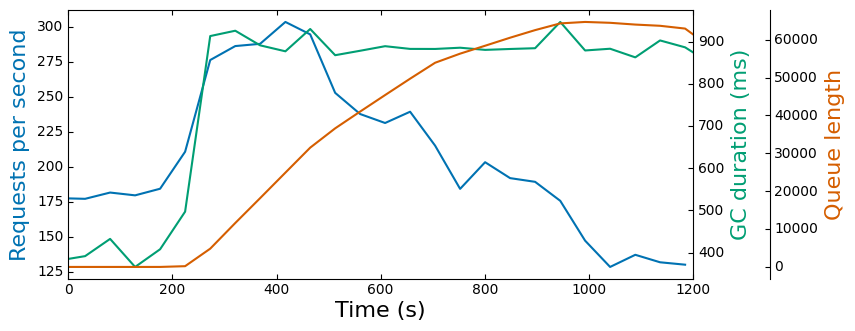
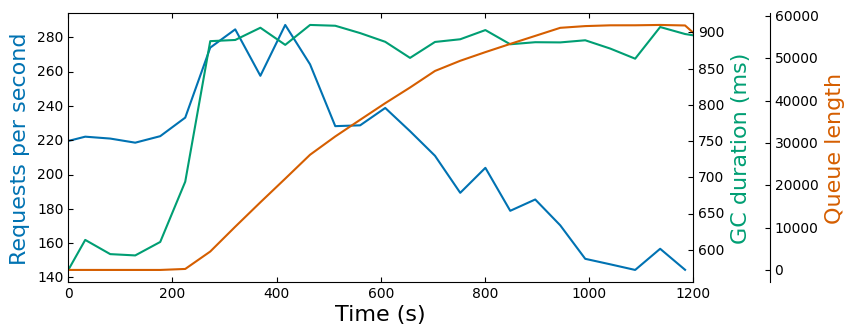
updates example plot

diff --git a/GC_Metastability/README.md b/GC_Metastability/README.md
@@ -17,7 +17,7 @@ pip3 install matplotlib
 
 ```bash
 sudo docker build -t exp .
-./run.sh 230 -1 1200 0 256m
+./run.sh 220 -1 1200 0 256m
 ./analyze.py job.csv gc.csv
 ./plot.py
 ```
